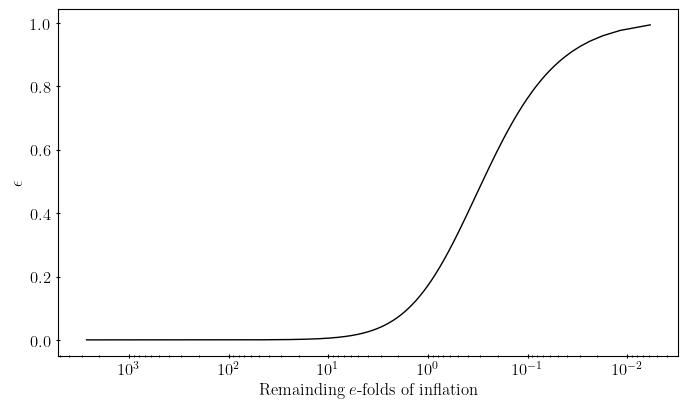
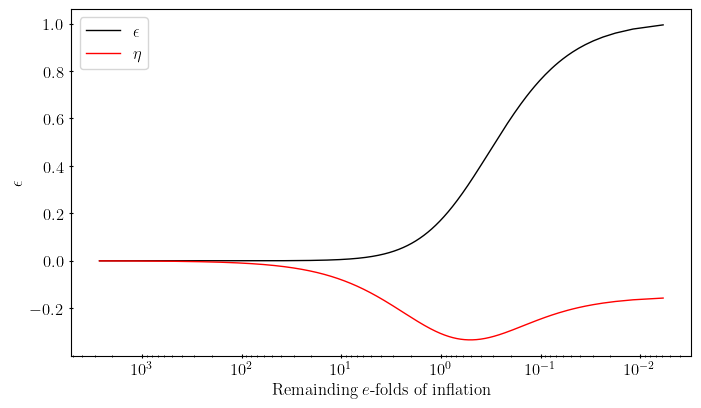
small tweaks

diff --git a/project-3/inflation.py b/project-3/inflation.py
@@ -97,9 +97,9 @@ class InflationModel:
 			ax1.plot(tau, psi/self.psi_i, label='Exact')
 			ax1.set_ylabel(r'$\psi/\psi_i$')
 
-			if xlim is not None:
+			if xlim is not None or self.name == 'starobinsky_':
 
-				axins = ax1.inset_axes([0.5, 0.25, 0.3, 0.5])
+				axins = ax1.inset_axes([0.25, 0.25, 0.3, 0.5])
 				axins.plot(tau, psi/self.psi_i)
 
 				x1, x2, y1, y2 = 2697, 2713, -0.07, 0.07
@@ -223,7 +223,7 @@ class InflationModel:
 			fig.savefig('figures/' + self.name + 'Ntot-compare-with-SRA.pdf', bbox_inches='tight')
 			fig.savefig('figures/' + self.name + 'Ntot-compare-with-SRA.png', bbox_inches='tight')
 
-	def pressure_energy_density_ratio(self, xlim=None, zoomed=False):
+	def pressure_energy_density_ratio(self, zoomed=False):
 
 		v = self.potential(self.psi, self.psi_i)
 
@@ -236,7 +236,6 @@ class InflationModel:
 		ax.plot(self.tau, w_phi)
 		ax.set_xlabel(r'$\tau$')
 		ax.set_ylabel(r'$\frac{p_\phi}{\rho_{\phi} c^2}$')
-		ax.set_xlim(xlim)
 
 		if zoomed:
 
@@ -262,10 +261,16 @@ class InflationModel:
 
 		fig, ax = plt.subplots()
 
-		ax.plot(N_left, self.epsilon[idx])
+		ax.plot(N_left, self.epsilon[idx], label=r'$\epsilon$')
 		ax.set_xscale('log')
 		ax.set_xlabel(r'Remainding $e$-folds of inflation')
 		ax.set_ylabel(r'$\epsilon$')
+
+		if self.eta is not None:
+
+			ax.plot(N_left, self.eta[idx], label=r'$\eta$')
+			ax.legend()
+
 		ax.invert_xaxis()
 
 		fig.savefig('figures/' + self.name + 'epsilon_remainding_efolds.pdf', bbox_inches='tight')

diff --git a/project-3/inflation_models.py b/project-3/inflation_models.py
@@ -83,17 +83,19 @@ phi2.pressure_energy_density_ratio()
 phi2.epsilon_remainding_e_folds()
 phi2.plot_tensor_to_scalar_ratio()
 
-starobinsky = InflationModel(2, 'starobinsky')
-starobinsky.set_end_of_inflation_time(2694.91)
+staro_psi_i = 2 
+staro_tau_end = 2694.91
+
+starobinsky = InflationModel(staro_psi_i, 'starobinsky')
+starobinsky.set_end_of_inflation_time(staro_tau_end)
 starobinsky.set_potential(staro_pot)
 starobinsky.set_potential_differential(diff_staro_pot)
 starobinsky.solve_scalar_field(3000)
 starobinsky.plot_solutions()
-starobinsky.plot_solutions(xlim=[2680, 2750])
 starobinsky.set_epsilon_parameter(staro_epsilon, print_tau_end=True)
 starobinsky.set_eta_parameter(staro_eta)
-starobinsky.num_e_folds(guess=None, text_ypos=0.6, plot=False)
-starobinsky.pressure_energy_density_ratio(zoomed=True)#xlim=[2685, 2705])
+starobinsky.num_e_folds(guess=None, plot=False)
+starobinsky.pressure_energy_density_ratio(zoomed=True)
 starobinsky.epsilon_remainding_e_folds()
 starobinsky.plot_tensor_to_scalar_ratio()
 
